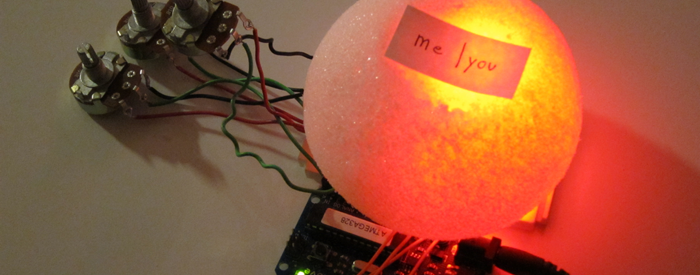
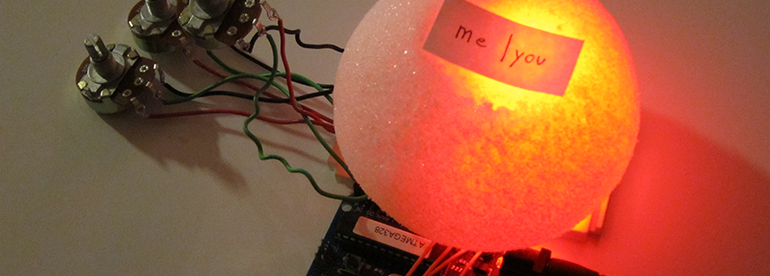
More image resizing

diff --git a/assets/css/main.css b/assets/css/main.css
@@ -221,6 +221,6 @@ dd {
   margin-bottom: 1.5em;
 }
 
-.post-group > a > img {
+img {
   border: 1px solid #999;
 }
